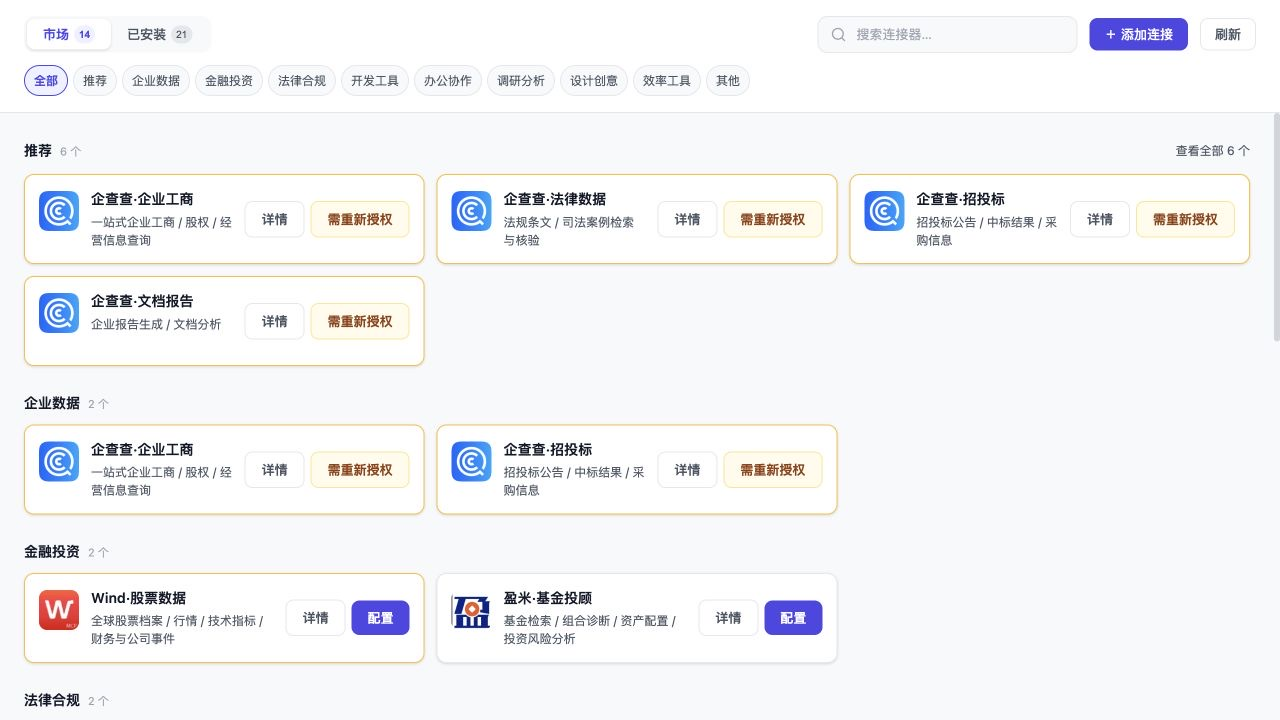
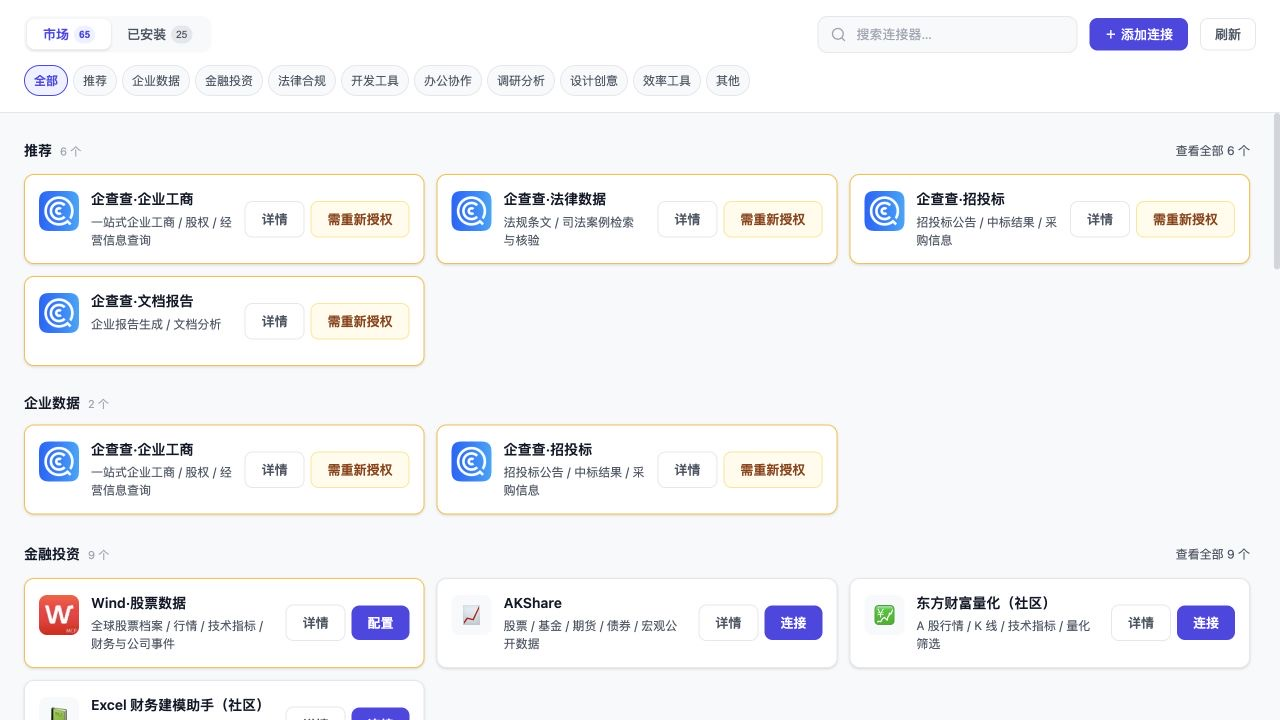
release: prepare v0.2.19

diff --git a/README.md b/README.md
@@ -30,7 +30,7 @@
 - 平滑迁移：显式扫描并复制两个旧企查查 OAuth 插件授权；不删除原插件或原凭据。
 - 对话工具：`mcp_connector_catalog`、`connect`、`configure`、`import_json`、`install_from_url`、`status`、`health_check`、`set_enabled`、`disconnect`、`refresh_catalog`、`publish`、`tools_list`。
 
-随包目录前 4 张为企查查连接器，另含“北大法宝·法律检索”和“Wind·股票数据”。远程 Registry 刷新后还会加入“盈米·基金投顾”、“QVerisMCP”、“八爪鱼·云采集”、GitHub、Cloudflare、Notion、Tavily 和由 Ace Data Cloud 托管的 Seedream，合并去重后当前共 14 张已发布市场卡片。推荐位严格保留 4 张企查查卡片、北大法宝和 Wind；其他连接器按业务分类展示。
+截至 2026-08-24，公共 Registry 已发布 61 条连接器描述；与随包的 4 张企查查卡片合并去重后，市场页可浏览 65 张卡片，覆盖企业数据、金融投资、法律合规、开发工具、办公协作、调研分析、设计创意、效率工具和其他 9 类。推荐位严格保留 4 张企查查卡片、北大法宝和 Wind，共 6 张；其他连接器按业务分类展示。Registry 可独立持续更新，实际数量以客户端刷新后的市场页签徽标为准。
 
 ## 界面与演示
 
@@ -100,7 +100,7 @@ npm run dev:ui
 
 `check` 执行语法检查、自动测试和 npm 发布包白名单校验；`market:check` 检查外部 DSH 市场 PR 与线上目录；`dev:ui` 启动不含真实凭据的本地 mock 市场。CI 使用 `--legacy-peer-deps` 安装显式测试依赖，DSH 运行期 peer 仍由 Host 提供。`v*` Tag 会触发 GitHub Actions；Tag 必须与 `package.json` 版本一致。Release 通过 npm Trusted Publishing (GitHub OIDC) 发布，不依赖长期 `NPM_TOKEN`。
 
-当前公开版本为 [`dsh-mcp-connector@0.2.18`](https://www.npmjs.com/package/dsh-mcp-connector)，对应 [GitHub Release v0.2.18](https://github.com/duhu2000/dsh-mcp-connector/releases/tag/v0.2.18)。
+当前公开版本为 [`dsh-mcp-connector@0.2.19`](https://www.npmjs.com/package/dsh-mcp-connector)，对应 [GitHub Release v0.2.19](https://github.com/duhu2000/dsh-mcp-connector/releases/tag/v0.2.19)。
 
 版本能力与变更记录见 [CHANGELOG.md](CHANGELOG.md)。
 Desktop 发版回归见 [docs/DESKTOP-E2E.md](docs/DESKTOP-E2E.md)。

diff --git a/README.en.md b/README.en.md
@@ -28,7 +28,7 @@ Browse and install MCP connectors from different providers in DeepSeek Harness D
 - A standalone remote Registry, allowing new marketplace cards to appear after refresh without publishing a new npm version.
 - Explicit, non-destructive migration of authorization from the two earlier Qichacha OAuth plugins.
 
-The first four bundled cards are Qichacha connectors, followed by PKULaw and Wind. After a remote Registry refresh, Yingmi, QVeris, Bazhuayu Cloud Collection, GitHub, Cloudflare, Notion, Tavily, and the Ace Data Cloud-hosted Seedream connector are also available, for 14 published marketplace cards after deduplication. Recommendations are limited to the four Qichacha cards, PKULaw, and Wind; all other connectors remain discoverable in their business categories.
+As of August 24, 2026, the public Registry publishes 61 connector descriptors. After merging and deduplicating them with the four bundled Qichacha cards, the Marketplace exposes 65 cards across nine business categories. Recommendations remain limited to the four Qichacha cards, PKULaw, and Wind, for six featured cards in total. The Registry can evolve independently, so the badge shown after a client refresh is the authoritative current count.
 
 ## Interface and demo
 
@@ -105,7 +105,7 @@ npm run dev:ui
 
 `npm run check` performs syntax checks, automated tests, and an npm package allowlist/sensitive-content audit. `npm run market:check` tracks the external DSH marketplace PR and live directory. Tags matching `v*` trigger GitHub Actions; the tag must match `package.json`. npm releases use Trusted Publishing through GitHub OIDC and do not require a long-lived `NPM_TOKEN`.
 
-The current public version is [`dsh-mcp-connector@0.2.18`](https://www.npmjs.com/package/dsh-mcp-connector), with [GitHub Release v0.2.18](https://github.com/duhu2000/dsh-mcp-connector/releases/tag/v0.2.18).
+The current public version is [`dsh-mcp-connector@0.2.19`](https://www.npmjs.com/package/dsh-mcp-connector), with [GitHub Release v0.2.19](https://github.com/duhu2000/dsh-mcp-connector/releases/tag/v0.2.19).
 
 See [CHANGELOG.md](CHANGELOG.md) for version history and [docs/DESKTOP-E2E.md](docs/DESKTOP-E2E.md) for the Desktop release checklist.
 

diff --git a/CHANGELOG.md b/CHANGELOG.md
@@ -4,6 +4,22 @@
 
 ## [Unreleased]
 
+## [0.2.19] - 2026-08-24
+
+### Fixed
+
+- 所有对话工具结果在交给 DSH Host 前统一转换为 lossless JSON，清理 `undefined`、非有限数字、`BigInt`、稀疏数组和循环引用，修复 Windows DSH Desktop 的 `value is not lossless JSON` 错误。
+- UI 静态文件路由不再使用平台相关的 `path.normalize` 处理 URL，Windows 下保持正斜杠语义并继续拒绝路径穿越，修复市场 iframe 返回 404。
+
+### Documentation
+
+- 中英文 README 更新为公共 Registry 61 条、与 4 张随包卡片合并后 65 张市场卡片的当前规模；重新采集市场总览并重建 16 秒演示 GIF。
+
+### Verification
+
+- 插件 94 项自动测试、lint、npm 发布文件白名单/敏感内容扫描和 `git diff --check` 通过。
+- 手动执行最新 Registry `main` 的 61 项健康巡检：60 项通过、1 项部分通过；44 个远程 MCP Server 全部可达并识别成功，28 个 stdio Server 按安全策略未执行本地命令。
+
 ## [0.2.18] - 2026-08-24
 
 ### Added
@@ -315,7 +331,8 @@
 - 外部 URL 与导入 Header 执行安全校验。
 - iframe 消息校验同源和消息来源。
 
-[Unreleased]: https://github.com/duhu2000/dsh-mcp-connector/compare/v0.2.18...HEAD
+[Unreleased]: https://github.com/duhu2000/dsh-mcp-connector/compare/v0.2.19...HEAD
+[0.2.19]: https://github.com/duhu2000/dsh-mcp-connector/compare/v0.2.18...v0.2.19
 [0.2.18]: https://github.com/duhu2000/dsh-mcp-connector/compare/v0.2.17...v0.2.18
 [0.2.17]: https://github.com/duhu2000/dsh-mcp-connector/compare/v0.2.16...v0.2.17
 [0.2.16]: https://github.com/duhu2000/dsh-mcp-connector/compare/v0.2.15...v0.2.16

diff --git a/docs/screenshots/README.md b/docs/screenshots/README.md
@@ -1,12 +1,14 @@
 # UI 素材说明
 
 本目录用于保存 `dsh-mcp-connector` 的公开界面截图。素材于 2026-08-24
-从本机 DSH `web` + `dsh-mcp-connector@0.2.16` 验收环境采集，只展示公开市场元数据、
-示例 Prompt 和工具名称/说明，不包含 OAuth Token、API Key、本机路径、用户会话或查询结果。
+从本机 DSH `web` + `dsh-mcp-connector@0.2.18`（0.2.19 未改动市场 UI）验收环境采集；
+远程 Registry 为当日 `main` 的 61 条描述，和 4 张随包卡片合并后市场显示 65 张。画面只展示
+公开市场元数据、示例 Prompt 和工具名称/说明，不包含 OAuth Token、API Key、本机路径、
+用户会话或查询结果。
 
 | 文件 | 展示内容 |
 |---|---|
-| `01-market-overview.jpg` | 14 张市场卡片、推荐章节、9 分类和固定分类栏 |
+| `01-market-overview.jpg` | 65 张合并市场卡片（61 条 Registry + 4 张随包卡片）、推荐章节、9 分类和固定分类栏 |
 | `02-connector-detail.jpg` | Seedream 第三方服务说明、精选 Prompt 和未连接状态 |
 | `03-tool-discovery.jpg` | 北大法宝多 Server 工具数量、描述、搜索和独立滚动区 |
 | `04-json-import.jpg` | Streamable HTTP / stdio JSON 导入与本机凭据提示 |
